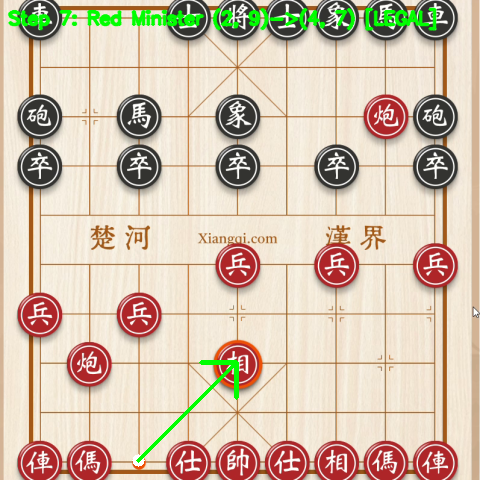
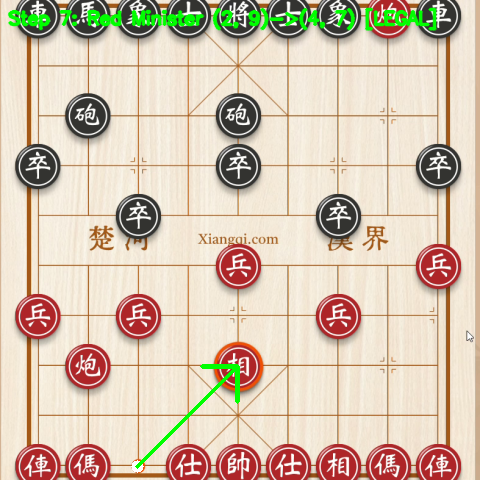
fix

diff --git a/real_time_test.py b/real_time_test.py
@@ -878,7 +878,7 @@ def PiecesChangeDetection(current_step):
 if __name__ == '__main__':
     # cap = cv2.VideoCapture(0, cv2.CAP_DSHOW)
     # cap = cv2.VideoCapture('./Sources/test.avi')
-    cap = cv2.VideoCapture('./Sources/test9.mp4')
+    cap = cv2.VideoCapture('./Sources/test11.mp4')
 
     if not cap.isOpened():
         exit('Camera is not open.')
